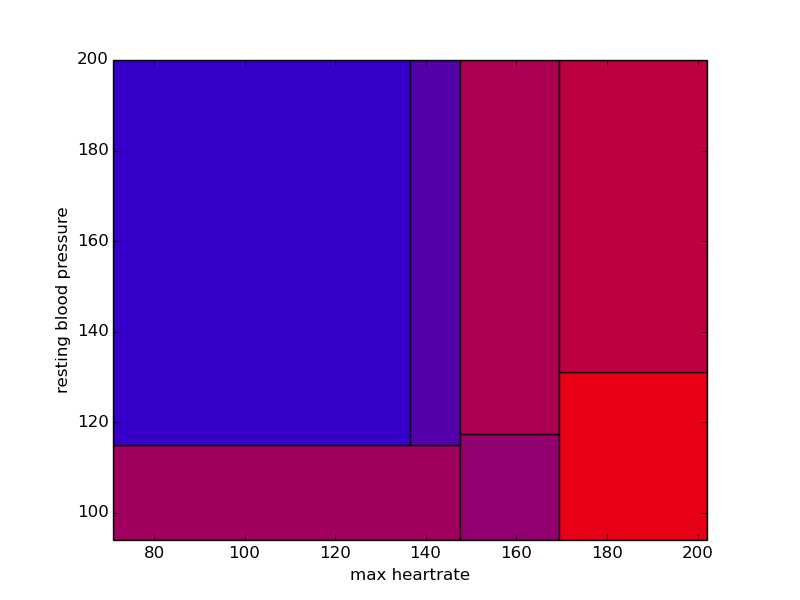
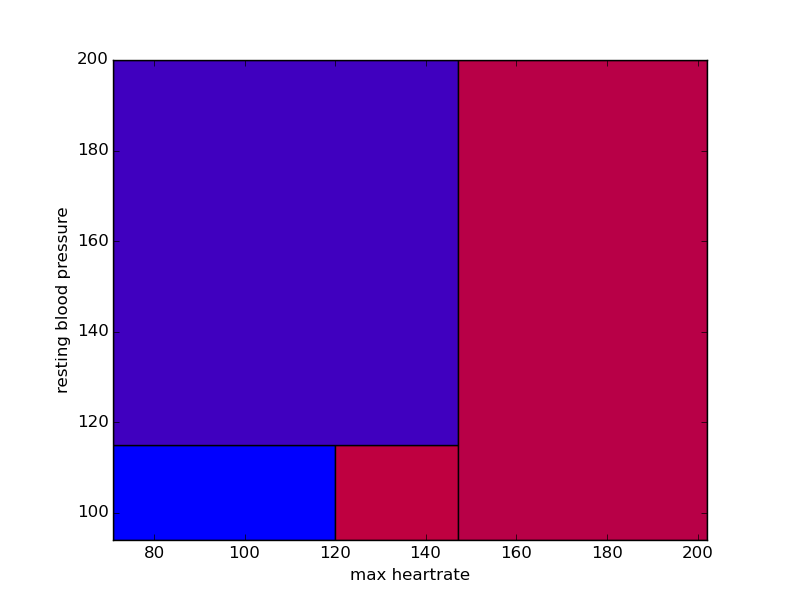
oei

Changed region(s): [[0.125, 0.09, 0.9062, 0.9]]

diff --git a/scripts/stresstest.py b/scripts/stresstest.py
@@ -9,7 +9,8 @@ import time
 
 
 def sync_db():
-    header = { "Authorization": "Basic: a2RsYW5ub3lAZ21haWwuY29tOmZlM2Y2ZDI5OGJlMWI2ODljNmUwZjlkNjFiYjNjY2YzYTNkYWIwMDdmYjYzZWU0MDcxMTFhMTgzMjNjYWQwNzAyNjM5OTY1OTZhOTAwZTM4MzgwNDhhMThjODdkZDUyOWZiZWM3YTA2YTEwZjA0ZDM0NjJjYmRmNjkwNGJlMjEz" }
+    header = {
+        "Authorization": "Basic: a2RsYW5ub3lAZ21haWwuY29tOmZlM2Y2ZDI5OGJlMWI2ODljNmUwZjlkNjFiYjNjY2YzYTNkYWIwMDdmYjYzZWU0MDcxMTFhMTgzMjNjYWQwNzAyNjM5OTY1OTZhOTAwZTM4MzgwNDhhMThjODdkZDUyOWZiZWM3YTA2YTEwZjA0ZDM0NjJjYmRmNjkwNGJlMjEz"}
 
     urls = [
         'http://tw06v033.ugent.be/Chronic/rest/DrugService/drugs',
@@ -20,7 +21,7 @@ def sync_db():
     ]
 
     session = requests.Session()
-    session.mount('http://', HTTPAdapter(pool_connections=50, pool_maxsize=50))
+    # session.mount('http://', HTTPAdapter(pool_connections=250, pool_maxsize=50))
     rs = (grequests.get(u, headers=header, session=session) for u in urls)
 
     # responses = requests.async.imap(rs, size=250)
@@ -41,11 +42,12 @@ def send_headache_to_db():
     pass
 
 
-thread_measures = {1: [], 5: [], 10: [], 25: [], 50: [], 100: []}
-n_measures = 10
+thread_measures = {1: [], 5: [], 10: [], 25: [], 50: [], 100: [], 250: [], 500: [], 1000: [], 2500: [], 5000: [],
+                   10000: []}
+n_measures = 1
 
 for i in range(n_measures):
-    for key in thread_measures.keys():
+    for key in sorted(thread_measures.keys()):
         # Do the request and add their response times to a queue
         q = Queue(key)
         for i in range(key):
@@ -62,7 +64,6 @@ for i in range(n_measures):
         thread_measures[key].append(np.mean(response_times))
         time.sleep(0.5)
 
-
 print '-------------------------- STRESS TEST: SYNCDB() -----------------------------------'
-for key in thread_measures.keys():
+for key in sorted(thread_measures.keys()):
     print '\t NUMBER OF THREADS = ' + str(key) + '\t AVG TIME = ' + str(np.mean(thread_measures[key]))

diff --git a/scripts/2d_heart_disease.py b/scripts/2d_heart_disease.py
@@ -41,8 +41,8 @@ for feature in feature_column_names:
         feature_maxs[feature] = np.max(df[feature])
 
 merger = DecisionTreeMerger()
-cart = CARTConstructor(min_samples_leaf=10, max_depth=3)
-
+# cart = CARTConstructor(min_samples_leaf=10, max_depth=2)
+cart = C45Constructor(cf=1.0)
 tree = cart.construct_tree(train_features_df, train_labels_df)
 tree.populate_samples(train_features_df, train_labels_df['cat'])
 tree.visualise("2d_tree")
